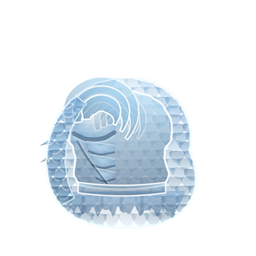
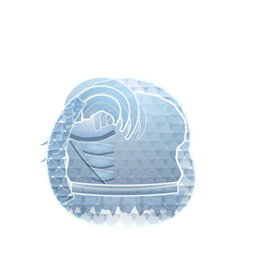
Call of Valor: the cuirass sat inside the pawn on the side view
Reported by the user: on east the chest, abs and belt all sat inside the body.
The cause was the front view's width fractions being reused there, and they are
the wrong number twice over:

  - Front and back are inset BECAUSE OF THE ARMS - roughly the outer 30% of
    that silhouette is arm, so a cuirass has to stop short of it. Side-on there
    is only ONE arm: BuildArmsPath is called with @(-1.0) for east, the column
    down the REAR edge. The FRONT half of the side view has no arm over it and
    no reason to be inset at all. That bare strip of pawn in front of the plate
    is exactly what read as the armour being inside him.
  - And side-on the torso is seen in DEPTH, not in width. Vanilla plate
    measures 0.75-1.04 of the body's own side profile through the torso against
    wider-than-body everywhere on the front. Nothing transfers.

East now rescales the profile so its widest point lands on a per-side target -
0.965 front, 0.880 rear under the arm column. Rescaled rather than clamped, so
the profile's SHAPE survives: a clamp would flatten the whole chest onto one
value and lose the neck narrowing and the waist draw-in.

THE PECTORAL WAS MEASURING OFF THE WRONG THING, and only this exposed it.
DrawPectoral took its widths from the BODY while DrawAbdomen already took them
from the PLATE. On the front views those are proportional and indistinguishable.
On east the plate moved outward and the pectoral did not, which would have left
[…]

Changed region(s): [[0.5312, 0.3438, 0.75, 0.7812], [0.25, 0.5, 0.4375, 0.7812], [0.375, 0.5, 0.4688, 0.5625]]

diff --git a/Mods/Dovahkiin/CHANGELOG.md b/Mods/Dovahkiin/CHANGELOG.md
@@ -1,5 +1,44 @@
 # CHANGELOG
 
+## Call of Valor: the cuirass sat INSIDE the pawn on the side view (2026-07-31)
+
+Reported by the user: on east, the chest, abs and belt all sat inside the body. They were right,
+and the cause was that the **front view's width fractions were being reused on the side view**,
+where they are the wrong number twice over:
+
+- **The front and back views are inset because of the ARMS.** Roughly the outer 30% of that
+  silhouette is arm, so a cuirass has to stop short of it. **Side-on there is only ONE arm** —
+  `BuildArmsPath` is called with `@(-1.0)` for east, the column down the *rear* edge — so the
+  front half of the side view has no arm over it and no reason to be inset at all. That bare
+  strip of pawn in front of the plate is exactly what read as "the armour is inside him".
+- **And side-on the torso is seen in DEPTH, not in width.** Vanilla plate measures 0.75–1.04 of
+  the body's own side profile through the torso, against wider-than-body everywhere on the front.
+  Nothing about the front's numbers transfers.
+
+*Fix:* east rescales the profile so its **widest point lands on a per-side target** — 0.965 on the
+front, 0.880 on the rear where the arm column sits. Rescaling rather than clamping keeps the
+profile's *shape*: the neck narrowing and the waist draw-in survive, where a clamp would have
+flattened the whole chest onto one value.
+
+### The pectoral was measuring off the wrong thing, and that only showed here
+
+`DrawPectoral` took its widths from the **body**, while `DrawAbdomen` already took them from the
+**plate**. On the front views those are proportional and nobody could tell. On east the plate moved
+outward and the pectoral did not, which would have left the muscle floating inside its own armour.
+
+Both now derive from `PlateEdge` and divide the plate fraction back out, which is **exactly** a
+no-op on the front and back — `PlateEdge` is `bodyHalf × frac`, so dividing by `frac` returns
+`bodyHalf` and every fraction below keeps the value it already had.
+
+**Proven, not asserted:** regenerating against the checkpoint's manifest changed **5 files of 37**,
+and all five are `DragonAspect_L2_*_east.png`. Every south and north texture is byte-identical.
+
+*The rule worth keeping:* **a feature drawn ON a plate should be a fraction OF THAT PLATE, never of
+the body underneath it.** Then it follows the plate on every rotation by construction, and a
+per-rotation change to the plate cannot leave its own detail behind.
+
+---
+
 ## Call of Valor: a curving belt and a fur skirt below the abdomen (2026-07-31)
 
 The third piece, below the abdomen. Drawn **in the order the layers are worn** — fur first, hanging
